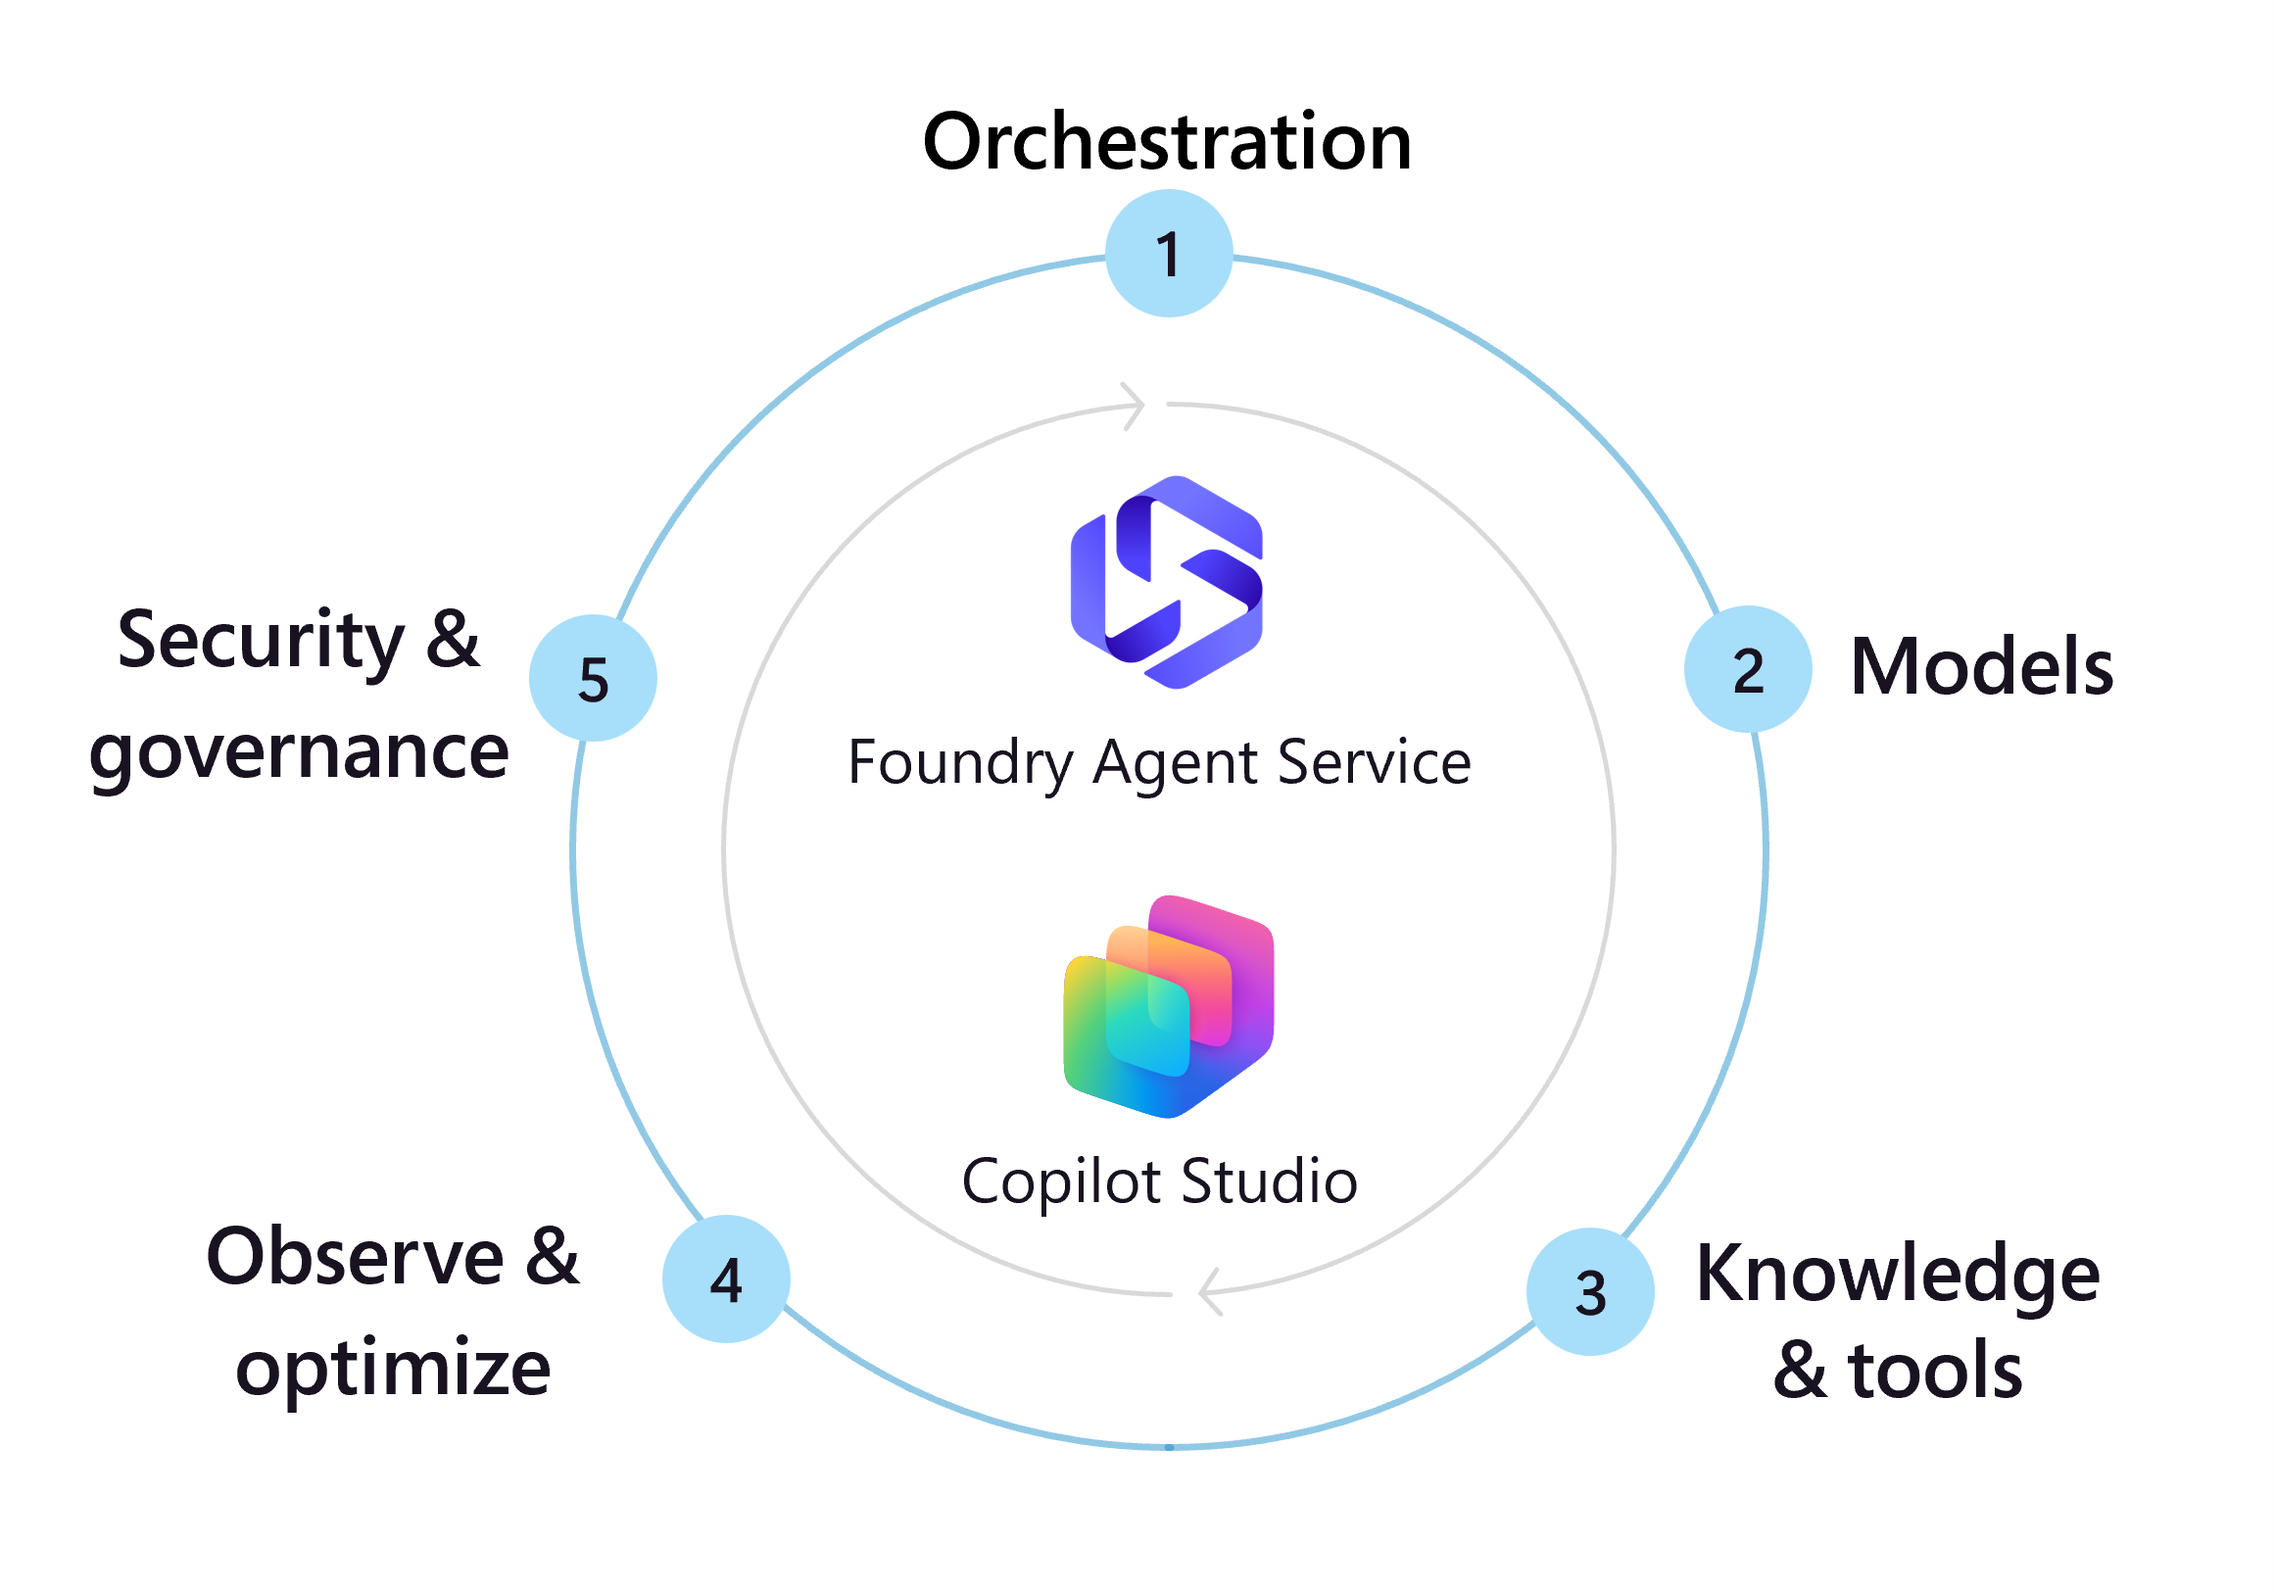
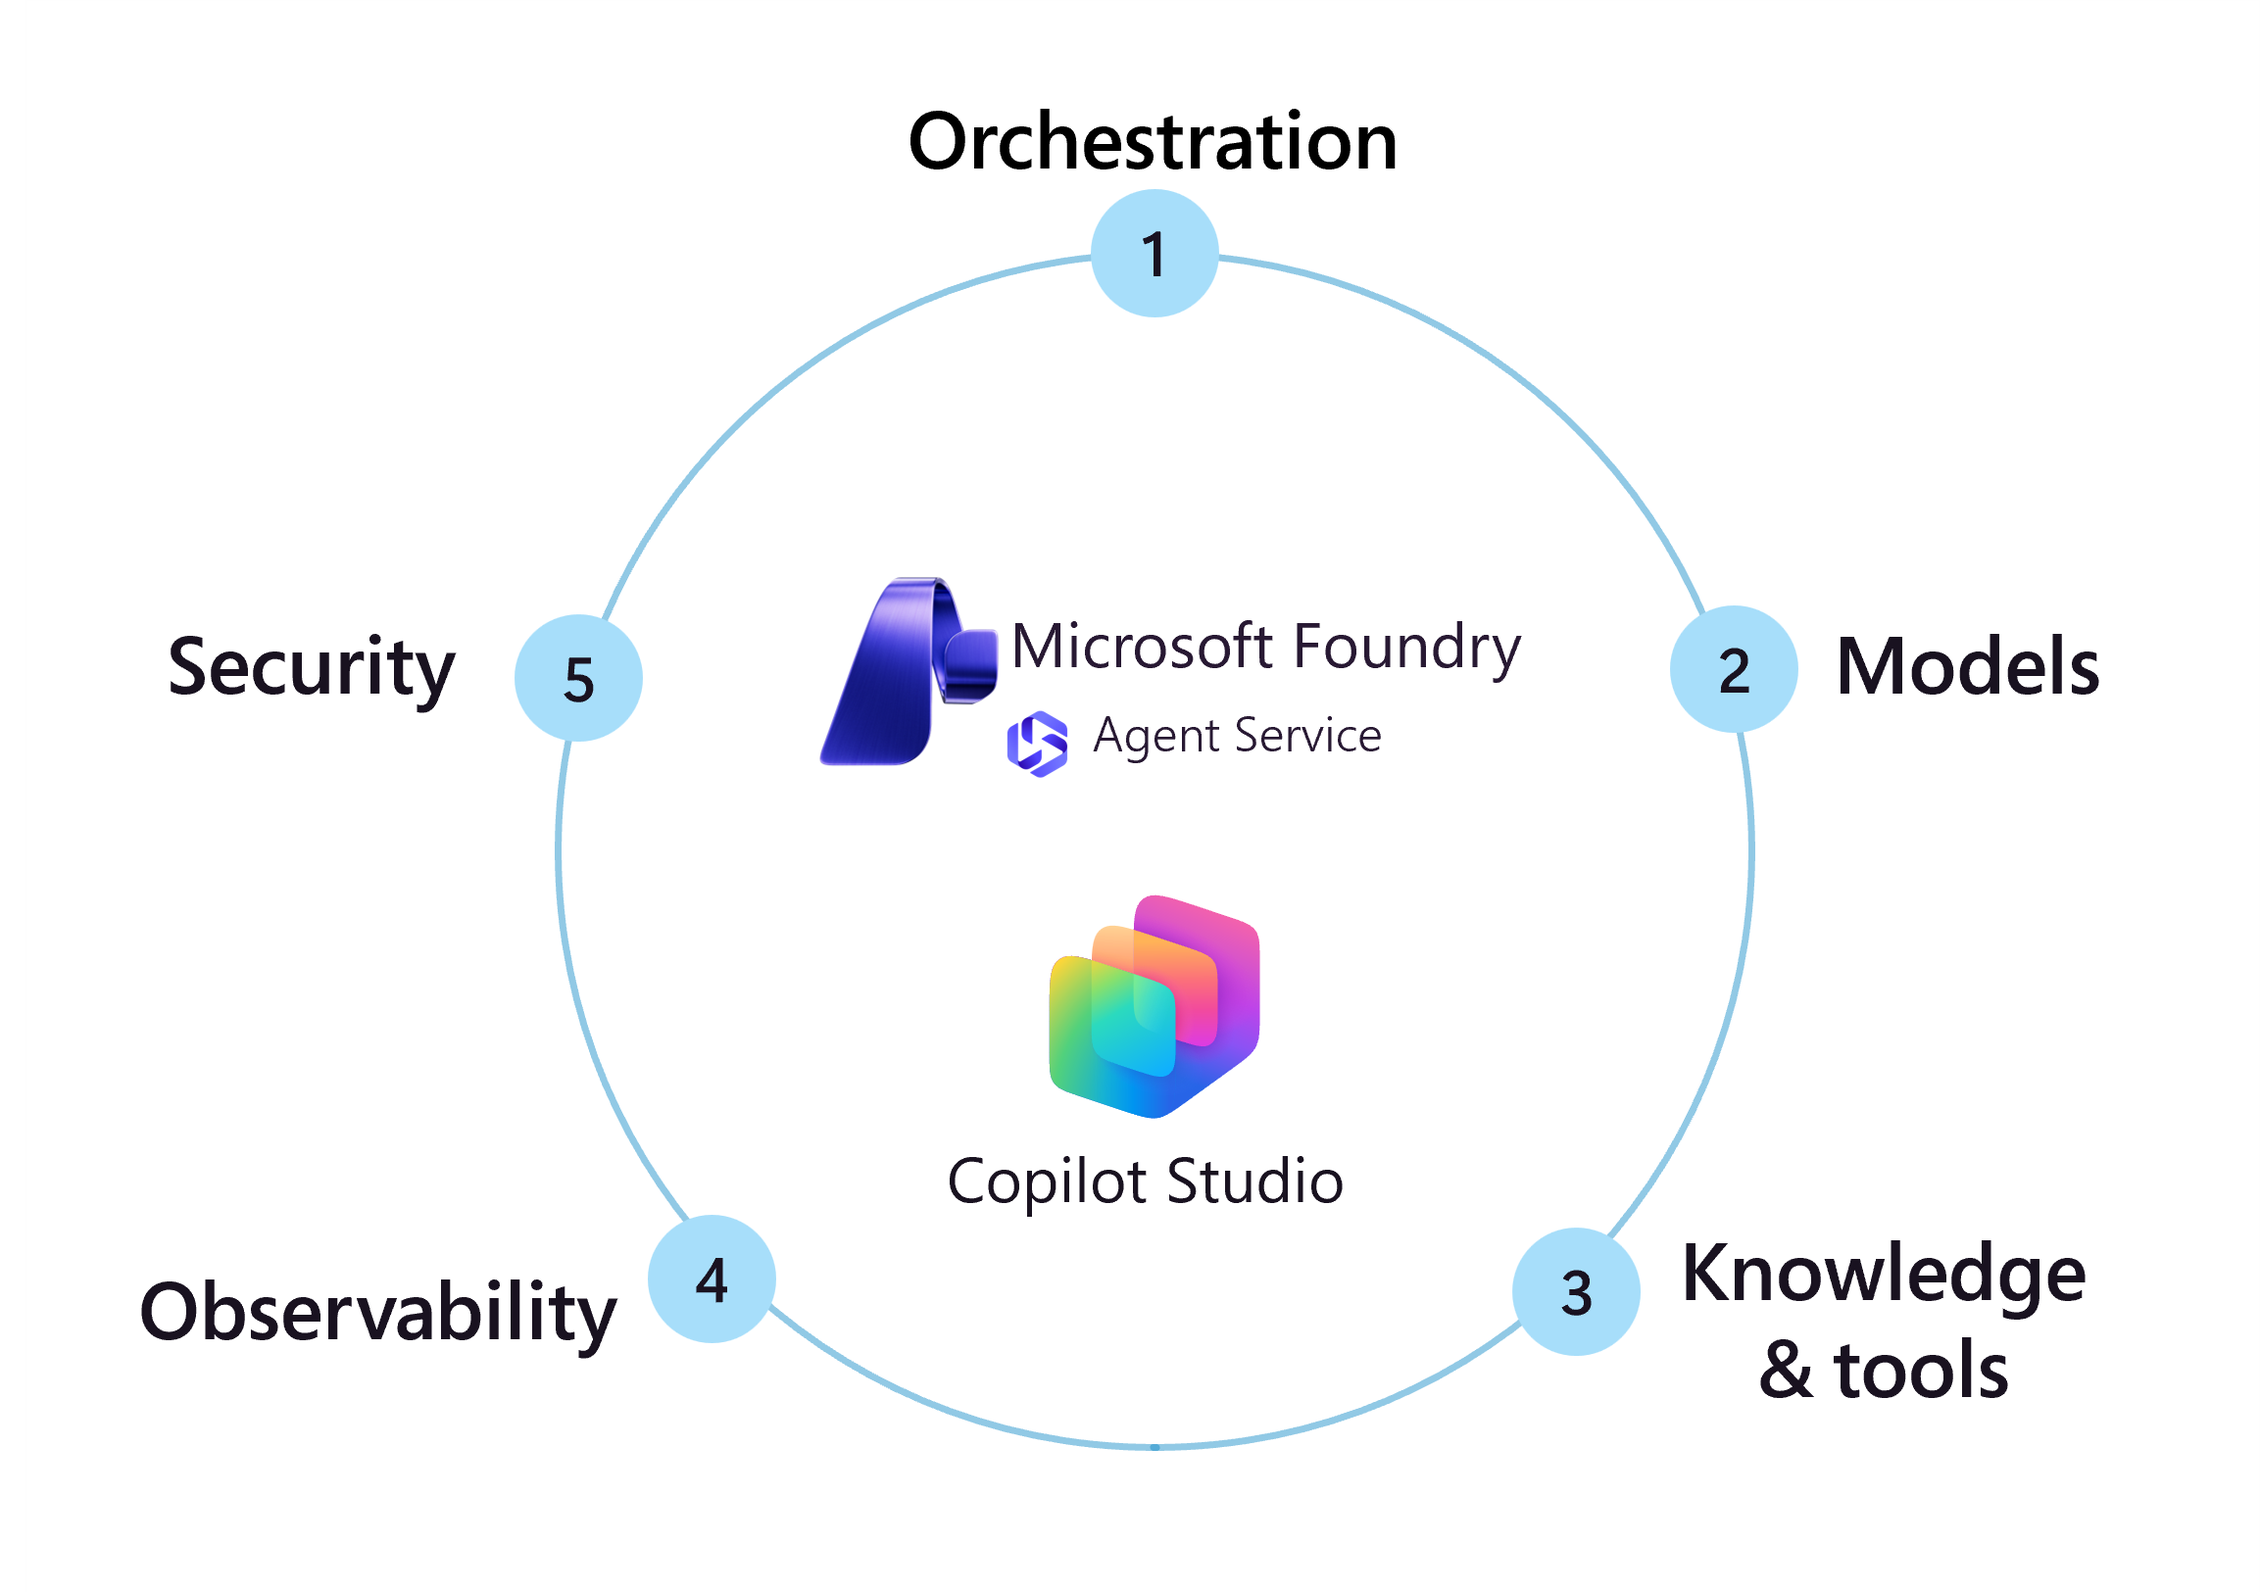
updates

diff --git a/docs/ai-agents/governance-security-across-organization.md b/docs/ai-agents/governance-security-across-organization.md
@@ -13,9 +13,13 @@ ms.collection: ce-skilling-ai-copilot
 
 # Governance for AI agents across the organization
 
-**Governance establishes control over AI agents and the data they access.** Beyond high-level principles, organizations require concrete governance mechanisms for AI agents across their lifecycle. Guardrails ensure agents access only authorized data, behave as expected, and allow for central management. Governance processes must be ingrained in how teams design, deploy, and update agents.
+This article helps you establish governance and security practices for AI agents across your organization. Without proper governance, AI agents can expose sensitive data, operate outside compliance boundaries, or create security vulnerabilities that threaten business operations. The guidance here explains how to implement controls that protect data, ensure regulatory compliance, maintain visibility into agent behavior, and secure agent infrastructure throughout its lifecycle.
 
-:::image type="content" source="./images/governance-security.png" alt-text="Diagram that shows how to govern ." lightbox="./images/governance-security.png" border="false":::
+Organizations must apply concrete governance mechanisms that span the entire agent lifecycle. These mechanisms ensure agents access only authorized data, behave predictably, and remain manageable at scale. Governance must be embedded into how teams design, deploy, monitor, and update agents, not treated as an afterthought.
+
+:::image type="complex" source="./images/governance-security.png" alt-text="Diagram of Microsoft's agent governance and lifecycle management framework." lightbox="./images/governance-security.png":::
+    The diagram illustrates Microsoft's agent governance and lifecycle management framework in three main sections. The top section shows org-wide agent governance with Microsoft Agent 365 at the center, connected to three areas: Data governance and compliance (Microsoft Purview, Azure Policy), Security (Microsoft Defender), and Observability (Azure Monitor, Microsoft Entra). Below this is a development layer featuring Microsoft Agent Framework, Foundry SDK, A2A, and MCP. The middle section shows the "Build" phase of lifecycle management with four categories: Agents and Workflows (Traces, Monitor, Evaluation), Models (Monitor, Evaluation), Evaluations (Evaluations, Evaluator catalog, Red team), and Guardrails (Guardrails, Blocklists). The bottom section shows the "Operate" phase with Foundry control plane containing Assets (Agents, Models, Tools), Compliance (Policies, Guardrails, Security posture), Quota (Tokens per minute, Provisioned throughput unit), and Admin (All projects, AI Gateway). At the base is the Microsoft Foundry logo with the label "Foundry Agent Service."
+:::image-end:::
 
 ## Data governance and compliance
 

diff --git a/docs/ai-agents/data-architecture-plan.md b/docs/ai-agents/data-architecture-plan.md
@@ -1,7 +1,8 @@
 ---
-title: Data plan for AI agents
+title: Data architecture for AI agents across your organization
 ms.reviewer: ssumner
-description: Learn how to develop a comprehensive data plan that enables AI agents to deliver business value through effective data management, preparation, and security.
+description: Explore how Microsoft Fabric and OneLake enable AI agents to operate on unified, trusted data for better decision-making and automation.
+#customer intent: As a business leader, I want to understand the role of data readiness so that I can ensure AI agents deliver accurate and reliable results.
 author: stephen-sumner
 ms.author: pnp
 ms.date: 12/01/2025
@@ -10,11 +11,13 @@ ms.topic: article
 ms.collection: ce-skilling-ai-copilot
 ---
 
-# Data plan for AI agents
+# Data architecture for AI agents
 
-A strong data plan is essential for organizations that want AI agents to deliver accurate, secure, and actionable results. This guidance explains how to prepare organizational data for Microsoft SaaS agents such as Microsoft 365 Copilot and for custom AI agents built on platforms like Copilot Studio or Microsoft Foundry. It outlines the decisions business leaders must make and the trade-offs involved in each step.
+This article explains how to develop a comprehensive data plan that enables AI agents to deliver business value through effective data management, preparation, and security. It guides leaders through key decisions about data unification, retrieval strategies, and governance that directly influence agent accuracy and organizational risk.
 
 Organizations often underestimate the role of data readiness in AI success. AI agents do not create knowledge. They retrieve and synthesize information from existing sources. If those sources are incomplete, fragmented, or inaccessible, the agent produces inaccurate or misleading results. A well-designed data plan ensures that agents operate on authoritative content, respect security boundaries, and deliver consistent value across business processes.
+
+This guidance applies to Microsoft SaaS agents such as Microsoft 365 Copilot and to custom AI agents built on platforms like Copilot Studio or Microsoft Foundry. The decisions outlined here directly affect agent reliability, compliance posture, and the speed at which new agents can be deployed.
 
 :::image type="content" source="images/data-architecture-fabric-onelake-foundry-azure-microsoft.png" alt-text="Diagram of a data estate from Microsoft 365 apps to data in Azure. It shows unification of business data in Microsoft Fabric's OneLake data lake, and how that data supports Foundry and Copilot Agents." lightbox="images/data-architecture-fabric-onelake-foundry-azure-microsoft.png":::
 

diff --git a/docs/ai-agents/technology-solutions-plan-strategy.md b/docs/ai-agents/technology-solutions-plan-strategy.md
@@ -12,15 +12,13 @@ ms.collection: ce-skilling-ai-copilot
 
 # Technology plan for AI agents
 
-## Introduction
-
 This article helps you choose the right technology platform for AI agents. After establishing that a use case requires AI agents, decide whether to adopt ready-to-use SaaS agents or build custom agents. Ready-to-use SaaS agents reduce time to value and operational complexity but offer limited customization. Custom-built agents provide full control and deeper integration but require more development resources and ongoing maintenance. Evaluate functional requirements, timeline, budget, and internal capabilities to guide this decision.
 
 :::image type="complex" source="./images/ai-agent-decision-tree.png" alt-text="Decision tree diagram for selecting AI agent solutions based on business and technology requirements." lightbox="./images/ai-agent-decision-tree.png":::
     A flowchart guides organizations through decisions about when and how to use AI agents. The diagram starts with a blue diamond labeled "Potential agent use case" and branches into multiple decision paths. The business plan path determines if AI agents should be used. If the answer is "No," the path leads to "Use code or non-generative AI models" with icons for GitHub, Microsoft Fabric, AI models in Foundry, and Machine Learning. If "Yes," it asks if the task involves static Q&A or content generation without reasoning. The technology plan path checks if SaaS agents meet functional requirements. If "Yes," the path leads to "Use SaaS agents" with icons representing M365 Copilot agents (App Builder, Workflows, Researcher, Analyst, Surveys), GitHub Copilot agent, Microsoft Fabric data agents, Azure Copilot agents, Dynamics 365 agents, and Security Copilot agents. If SaaS agents do not meet needs, the path leads to "Build AI agents" with options for GPUs & Containers (open-source), Microsoft Foundry (PaaS pro-code), and Copilot Studio (SaaS no/low-code). The single or multiple agents decision path asks whether the use case involves security concerns, compliance requirements, multiple teams, or future growth. If "Yes," it leads to "Build multiple agents" using workflows for orchestration. If "No," it checks task complexity and requirements, leading to either "Test a single agent" or "Build a single agent" using workflows for integration and governance. The diagram uses color-coded shapes with diamonds representing decision points and rectangles representing actions, with arrows showing the flow between choices.
 :::image-end:::
 
-## Adopt SaaS agents
+## Use SaaS agents
 
 Prioritize prebuilt solutions when they meet functional and budget requirements. SaaS agents reduce development overhead and accelerate deployment.
 

diff --git a/docs/ai-agents/build-secure-process.md b/docs/ai-agents/build-secure-process.md
@@ -1,7 +1,7 @@
 ---
-title: Build AI Agents with Foundry and Copilot
+title: Process to Build AI agents with Microsoft Foundry and Copilot Studio
 ms.reviewer: ssumner
-description: Learn how to build and secure AI agents using Foundry and Microsoft Copilot Studio. Follow a strategic framework for consistent, governed development.
+description: Learn how to build and secure AI agents using Microsoft Foundry and Microsoft Copilot Studio. Follow a strategic framework for consistent, governed development.
 #customer intent: As a technical decision maker, I want to understand the prerequisites for building AI agents so that I can establish a secure and well-governed foundation.
 author: stephen-sumner
 ms.author: pnp
@@ -11,9 +11,9 @@ ms.topic: article
 ms.collection: ce-skilling-ai-copilot
 ---
 
-# Build AI agents
+# Process to build AI agents
 
-This article provides a strategic framework for technical decision makers to build agents in Microsoft Foundry and Microsoft Copilot Studio. Use this guidance to establish standards and help your organization succeed with AI agents.
+This article outlines the strategic decisions and governance frameworks organizations must establish to build AI agents consistently and securely. The five-step process addresses agent orchestration, model selection, knowledge and tool integration, observability, and security. Use this guidance to define standards, implement controls, and scale agent adoption across your organization while maintaining compliance and operational excellence.
 
 :::image type="content" source="./images/build-ai-agents.png" alt-text="Diagram showing five steps to build agents: Orchestration, Models, Knowledge & Tools, Observability, Security. The center highlights Microsoft Foundry and Copilot Studio as two platforms for Microsoft Build." lightbox="./images/build-ai-agents.png" border="false":::
 

diff --git a/docs/ai-agents/business-strategy-plan.md b/docs/ai-agents/business-strategy-plan.md
@@ -13,7 +13,7 @@ ms.collection: ce-skilling-ai-copilot
 
 # Business plan for AI agents
 
-Successful AI agent adoption requires aligning technical capabilities with organizational strategy. This guidance helps identify high-value use cases and define criteria for application, ensuring investments drive measurable business outcomes while managing architectural complexity.
+This article helps decision-makers identify high-value AI agent use cases and establish prioritization criteria aligned with organizational strategy. You'll learn when agents deliver measurable business value, how to evaluate candidates across business impact, technical feasibility, and user desirability, and how to define success metrics that track outcomes. This guidance ensures AI agent investments drive competitive advantage while managing implementation complexity and risk.
 
 ## When not to use AI agents?
 

diff --git a/AGENTS.md b/AGENTS.md
@@ -85,13 +85,14 @@ Do **not** create separate sections for persona or mention them by name. Instead
 
     # [Descriptive Noun Phrase Title]
 
-    ## Introduction
-    "This article ..." then summarize what the reader will learn. State why this is important to the key persona(s).
+    "This article ..." then summarize what the article covers. Descriptively explain why this article is important to the enterprise architect. Explain what would happen if you don't follow this guidance.
 
     ## [Section Heading]
+
     Explain the decision point, available options, trade-offs, and best practices. Provide concise, actionable recommendations with supporting rationale.
 
     ## [Additional Sections as Needed]
+
     Follow the same structure for each major topic.
 
 ***

diff --git a/docs/ai-agents/index.md b/docs/ai-agents/index.md
@@ -2,6 +2,7 @@
 title: AI Agent Adoption Guidance for Organizations
 ms.reviewer: ssumner
 description: Discover how to adopt AI agents effectively with a step-by-step framework for planning, governance, integration, and measurement to maximize business impact.
+#customer intent: As a business leader, I want to understand how to adopt AI agents effectively so that I can align them with my organization's strategic goals.
 author: stephen-sumner
 ms.author: pnp
 ms.date: 12/01/2025
